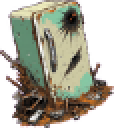
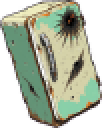
Shake only the fridge, not the rubble under it
The icebox and the scrap it leans on are separate sprites. Knocks
nudge the box sideways; the pile stays planted.

diff --git a/web/js/engine.js b/web/js/engine.js
@@ -111,6 +111,7 @@ export class Adventure {
       if (room.bg) paths.add(room.bg);
       for (const hs of room.hotspots || []) {
         if (hs.image) paths.add(hs.image);
+        if (hs.baseImage) paths.add(hs.baseImage);
       }
     }
     for (const item of Object.values(this.world.items)) {
@@ -670,17 +671,20 @@ export class Adventure {
       const bg = this.img(room.bg);
       if (bg) ctx.drawImage(bg, 0, 0, W, H);
       for (const hs of room.hotspots || []) {
-        if (!hs.image) continue;
         if (hs.visible && !hs.visible(this)) continue;
+        if (hs.baseImage && hs.baseRect) {
+          const base = this.img(hs.baseImage);
+          if (base) ctx.drawImage(base, hs.baseRect[0], hs.baseRect[1], hs.baseRect[2], hs.baseRect[3]);
+        }
+        if (!hs.image || !hs.rect) continue;
         const im = this.img(hs.image);
-        if (!im || !hs.rect) continue;
-        let ox = 0, oy = 0;
+        if (!im) continue;
+        let ox = 0;
         if (this.shake && this.shake.id === hs.id && this.shake.t > 0) {
           const k = this.shake.t / this.shake.dur;
           ox = Math.sin(this.shake.t * 70) * 3 * k;
-          oy = Math.cos(this.shake.t * 90) * 1.5 * k;
         }
-        ctx.drawImage(im, hs.rect[0] + ox, hs.rect[1] + oy, hs.rect[2], hs.rect[3]);
+        ctx.drawImage(im, hs.rect[0] + ox, hs.rect[1], hs.rect[2], hs.rect[3]);
       }
       this.drawPlayer(ctx);
       if (this.debug) this.drawDebug(ctx, room);

diff --git a/web/js/world.js b/web/js/world.js
@@ -119,7 +119,9 @@ export const world = {
           id: "fridge",
           name: "refrigerator door",
           image: "assets/items/fridge.png",
-          rect: [4, 214, 96, 112],
+          rect: [12, 208, 80, 100],
+          baseImage: "assets/items/fridge-rubble.png",
+          baseRect: [2, 218, 100, 108],
           approach: [176, 322],
           look: (game) =>
             game.flag("outOfFridge")
